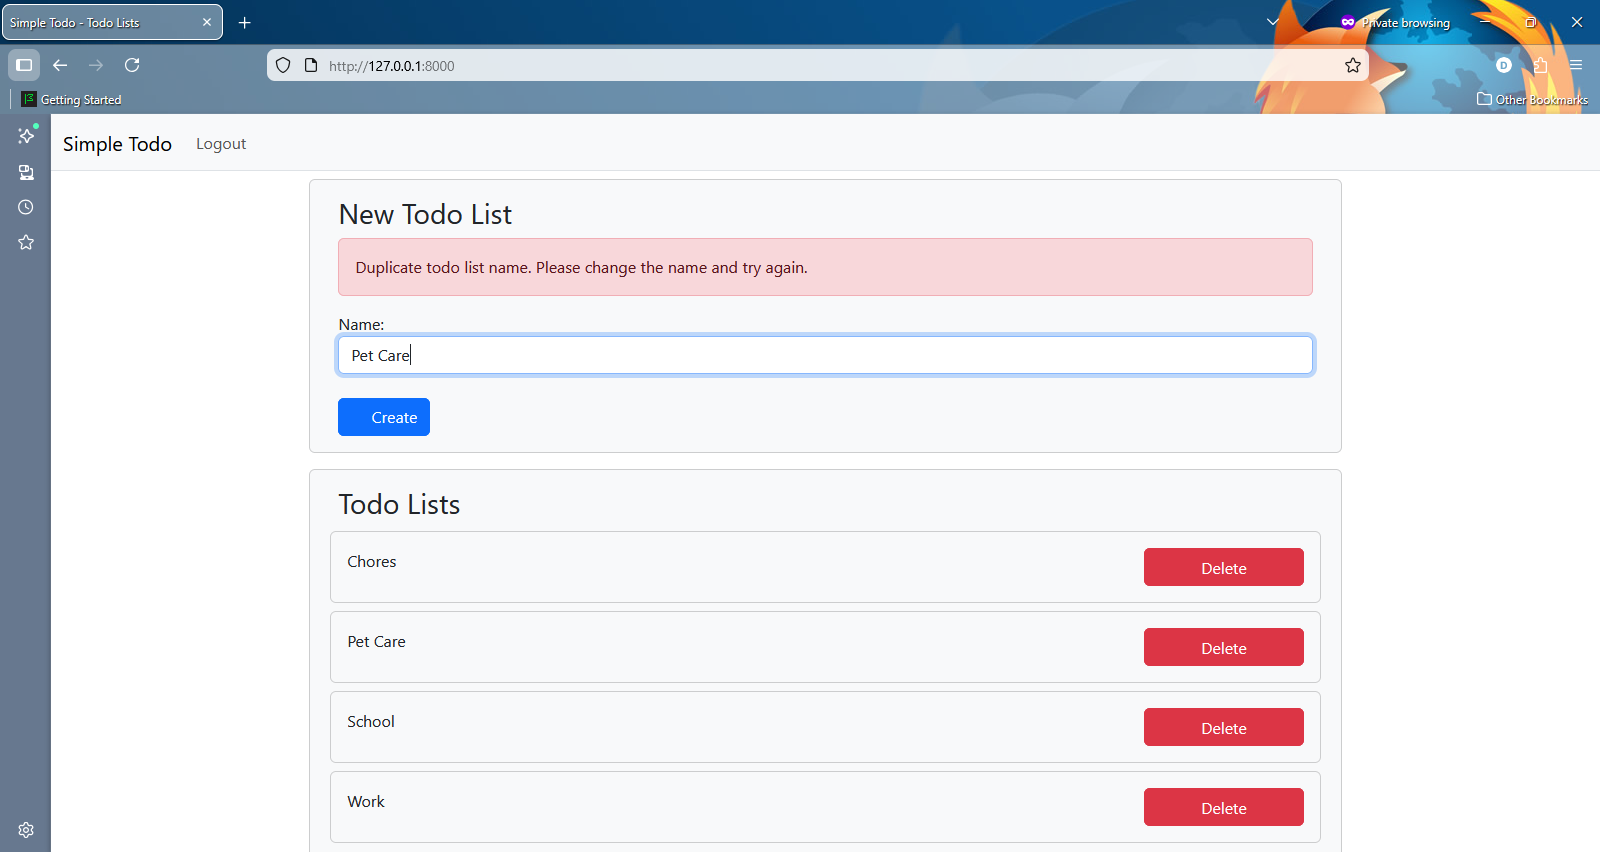
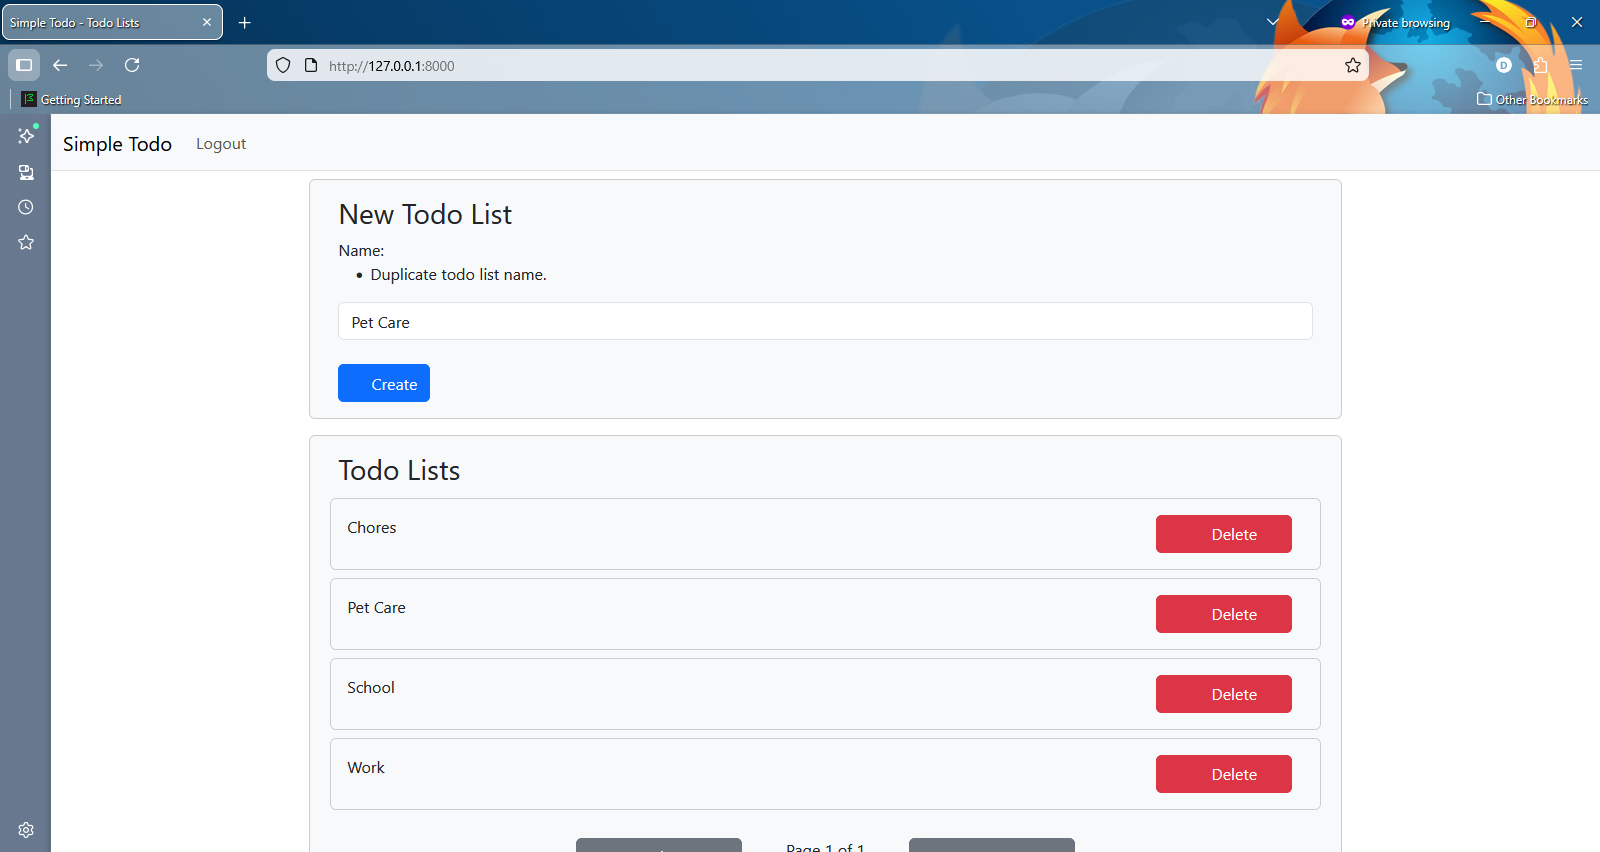
Simplify `TodoListCreateView`.

diff --git a/simple_todo/todo_lists/templates/todo_lists/todo_list_create_form.html b/simple_todo/todo_lists/templates/todo_lists/todo_list_create_form.html
@@ -1,8 +1,5 @@
 <form hx-post="{% url 'todo-lists' %}" hx-swap="outerHTML">
     {% csrf_token %}
-    {% if todo_list_create_err %}
-        <div class="alert alert-danger">{{ todo_list_create_err }}</div>
-    {% endif %}
     {{ form }}
     <br/>
     <button class="btn btn-primary">

diff --git a/simple_todo/todo_lists/views.py b/simple_todo/todo_lists/views.py
@@ -2,11 +2,12 @@ from django.contrib.auth.mixins import LoginRequiredMixin
 from django.db.utils import IntegrityError
 from django.shortcuts import get_object_or_404, render
 from django.urls import reverse_lazy
-from django.views.generic import ListView, TemplateView, View
+from django.views.generic import CreateView, ListView, TemplateView, View
 from django.views.generic.detail import SingleObjectMixin
 from django_htmx.http import HttpResponseClientRedirect
 
 from .forms import TaskForm, TodoListForm
+from .models import TodoList
 
 
 # View Classes
@@ -33,33 +34,23 @@ class TodoListsPartialView(ListView):
         return self.request.user.todo_lists.order_by("name")
     
 
-class TodoListCreateView(TemplateView):
+class TodoListCreateView(CreateView):
     template_name = "todo_lists/todo_list_create_form.html"
+    model = TodoList
+    form_class = TodoListForm
     success_url = reverse_lazy("todo-lists")
 
-    def post(self, request, *args, **kwargs):
-        # Validate the todo list form
-        form = TodoListForm(request.POST)
-
-        if not form.is_valid():
-            # Return the form to be corrected
-            ctx = self.get_context_data()
-            ctx["form"] = form
-            return render(request, self.template_name, ctx)
-        
-        # Save the new todo list
+    def form_valid(self, form):
+        # Associate the new todo list with the current user and try to save the
+        # new todo list
         try:
-            form.instance.user = request.user
-            form.save()
-
+            form.instance.user = self.request.user
+            super().form_valid(form)
+            return HttpResponseClientRedirect(self.get_success_url())
+        
         except IntegrityError:
-            # Return the form to be corrected
-            ctx = self.get_context_data()
-            ctx["form"] = form
-            ctx["todo_list_create_err"] = "Duplicate todo list name. Please change the name and try again."
-            return render(request, self.template_name, ctx)
-
-        return HttpResponseClientRedirect(self.success_url)
+            form.add_error("name", "Duplicate todo list name.")
+            return self.form_invalid(form)
     
 
 class TodoListsView(LoginRequiredMixin, View):

diff --git a/lessons/09-creating_todo_lists.md b/lessons/09-creating_todo_lists.md
@@ -6,10 +6,11 @@ from django.contrib.auth.mixins import LoginRequiredMixin
 from django.db.utils import IntegrityError
 from django.shortcuts import render
 from django.urls import reverse_lazy
-from django.views.generic import ListView, TemplateView, View
+from django.views.generic import CreateView, ListView, View
 from django_htmx.http import HttpResponseClientRedirect
 
 from .forms import TodoListForm
+from .models import TodoList
 
 
 # View Classes
@@ -36,33 +37,23 @@ class TodoListsPartialView(ListView):
         return self.request.user.todo_lists.order_by("name")
     
 
-class TodoListCreateView(TemplateView):
+class TodoListCreateView(CreateView):
     template_name = "todo_lists/todo_list_create_form.html"
+    model = TodoList
+    form_class = TodoListForm
     success_url = reverse_lazy("todo-lists")
 
-    def post(self, request, *args, **kwargs):
-        # Validate the todo list form
-        form = TodoListForm(request.POST)
-
-        if not form.is_valid():
-            # Return the form to be corrected
-            ctx = self.get_context_data()
-            ctx["form"] = form
-            return render(request, self.template_name, ctx)
-        
-        # Save the new todo list
+    def form_valid(self, form):
+        # Associate the new todo list with the current user and try to save the
+        # new todo list
         try:
-            form.instance.user = request.user
-            form.save()
-
+            form.instance.user = self.request.user
+            super().form_valid(form)
+            return HttpResponseClientRedirect(self.get_success_url())
+        
         except IntegrityError:
-            # Return the form to be corrected
-            ctx = self.get_context_data()
-            ctx["form"] = form
-            ctx["todo_list_create_err"] = "Duplicate todo list name. Please change the name and try again."
-            return render(request, self.template_name, ctx)
-
-        return HttpResponseClientRedirect(self.success_url)
+            form.add_error("name", "Duplicate todo list name.")
+            return self.form_invalid(form)
     
 
 class TodoListsView(LoginRequiredMixin, View):
@@ -82,13 +73,10 @@ class TodoListsView(LoginRequiredMixin, View):
         return view(request, *args, **kwargs)
 ```
 
-Our new `TodoListCreateView` extends `TemplateView`. A template view will automatically render the template referenced by its `template_name` attribute using the context returned by the `get_context_data` method for HTTP GET requests. But in our case, we need to handle an HTTP POST request. Therefore, we will define a `post` method which creates an instance of our todo list form using the HTTP POST data and validates the form. If the form is invalid, the todo list form will be returned to the user to be corrected. If the form is valid, the current user will be associated with the new todo list, the new todo list will be saved, and the user will be redirected to the homepage. We use the `reverse_lazy` function to get the URL of the homepage via its view name and store it in the `success_url` attribute. The reason why we redirect to the homepage is to ensure that the data displayed is correct. Since we prohibit a user from having multiple todo lists with the same name, we need to handle the `IntegrityError` exception by returning the form to the user to be corrected if the supplied todo list name was a duplicate. We will also add a descriptive error message to the template context if the name was a duplicate. Next, we need to modify `simple-todo/simple_todo/todo_lists/templates/todo_lists/todo_list_create_form.html` like this:
+Our new `TodoListCreateView` extends `CreateView`. It uses submitted form data to create a new todo list. The `template_name` attribute determines the template to render to display the todo list form. The `model` attribute determines the data model class which will be used to create a new data model instance. The `form_class` attribute determines which form class will be used. The `success_url` attribute determines what URL to redirect to on success. We override the `form_valid` method in order to associate the new todo list with the current user before saving it by calling the base `form_valid` method. The base `form_valid` method returns an `HttpResponseRedirect` object, but since we're using htmx we must instead return an `HttpResponseClientRedirect` object. This will redirect to the homepage in order to reload it instead of replacing the form with the response. If we supply a duplicate todo list name an `IntegrityError` exception will be raised. We handle this exception by setting the error message for the name field to indicate that the todo list name was a duplicate and return the value returned by the `form_invalid` method. Next, we need to modify `simple-todo/simple_todo/todo_lists/templates/todo_lists/todo_list_create_form.html` like this:
 ```html
 <form hx-post="{% url 'todo-lists' %}" hx-swap="outerHTML">
     {% csrf_token %}
-    {% if todo_list_create_err %}
-        <div class="alert alert-danger">{{ todo_list_create_err }}</div>
-    {% endif %}
     {{ form }}
     <br/>
     <button class="btn btn-primary">
